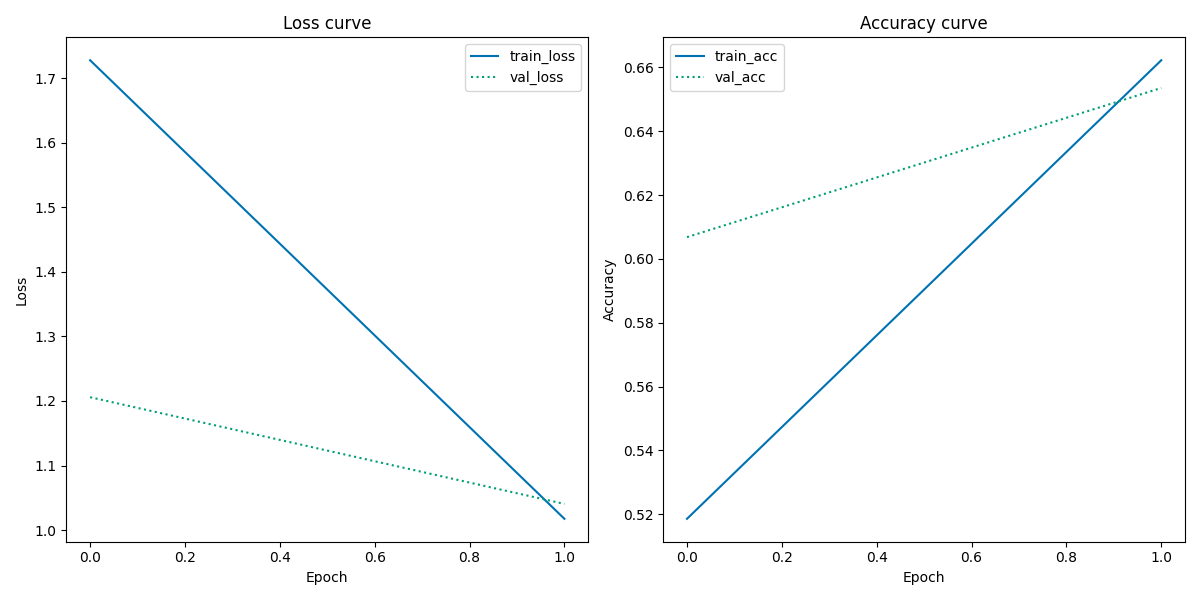
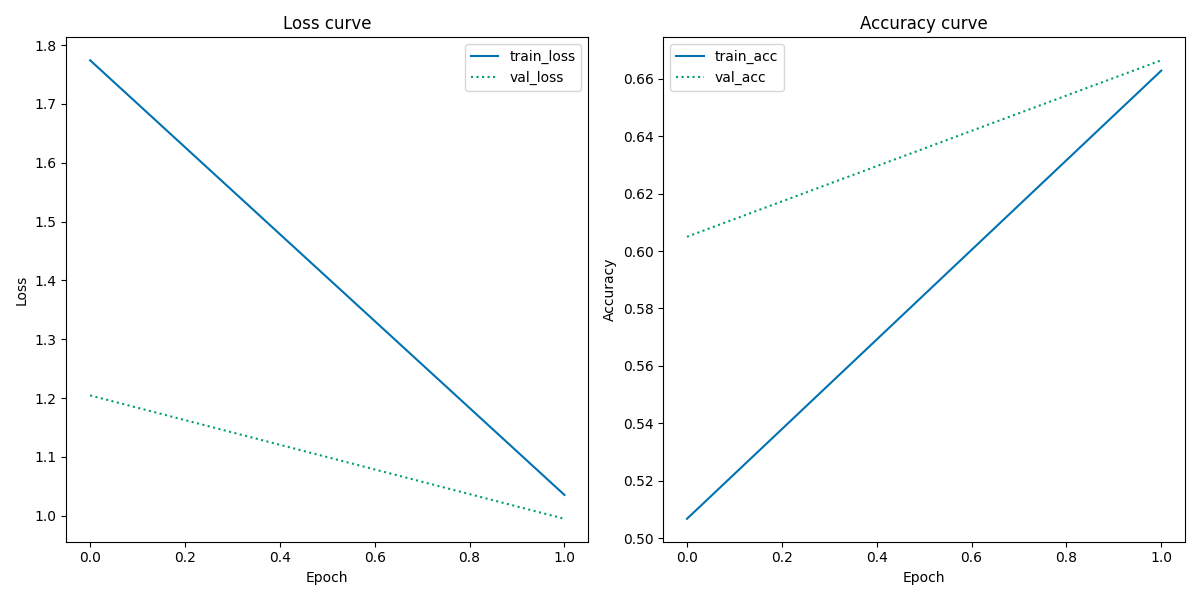
slight modification

diff --git a/utils/preprocessing.py b/utils/preprocessing.py
@@ -146,7 +146,7 @@ def train_model(datagen, train_data, val_data, test_data, model):
     batch_size = 64
     # fitting the model 
     H = model.fit(train_images,
-                batch_size=32,
+                batch_size=batch_size,
                 validation_data=val_images,
                 steps_per_epoch=train_images.samples // batch_size,
                 validation_steps=val_images.samples // batch_size,
